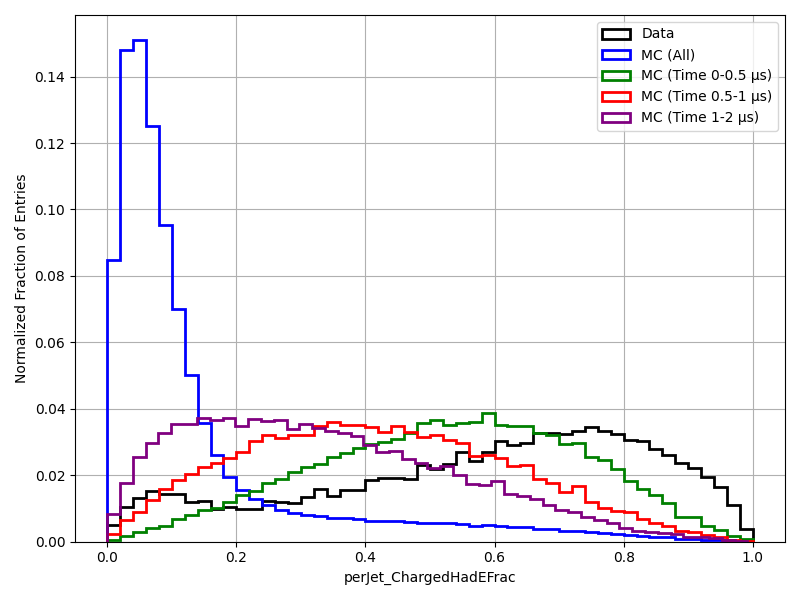
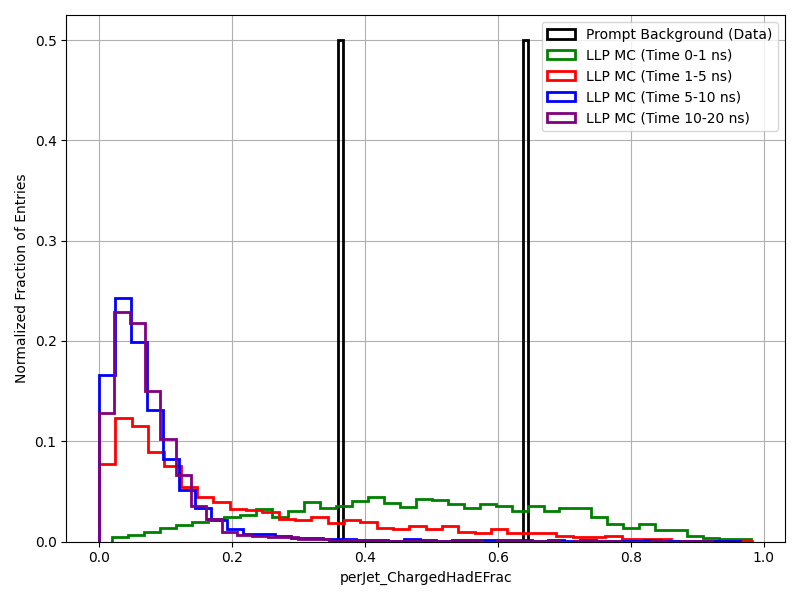
fixed timing constraints

diff --git a/JetTimingStudy.py b/JetTimingStudy.py
@@ -11,6 +11,47 @@ tree_name = "PerJet_NoSel"
 
 # -- Variables to plot
 variables_to_plot = ["perJet_EnergyFrac_Depth1", "perJet_NeutralHadEFrac", "perJet_Pt", "perJet_Mass", "perJet_Area", "perJet_ChargedHadEFrac", "perJet_PhoEFrac", "perJet_EleEFrac", "perJet_MuonEFrac", "perJet_MatchedLLP_DecayZ", "perJet_MatchedLLP_DecayR", "perJet_MatchedLLP_TravelTime", "perJet_MatchedLLP_Eta", "perJet_S_phiphi", "perJet_S_etaeta", "perJet_S_etaphi"]
+
+
+# ideal for eta constraints 
+# detailed_variables_to_plot = [
+#     ("perJet_EnergyFrac_Depth1", True, -0.25, 1, 50),
+#     ("perJet_NeutralHadEFrac", True, 0, 1, 40),
+#     ("perJet_Pt", True, 0, 200, 50),
+#     ("perJet_Mass", True, -5, 30, 50),
+#     ("perJet_Area", True, 0.3, 0.7, 25),
+#     ("perJet_ChargedHadEFrac", True, -0.1, 1, 40),
+#     ("perJet_PhoEFrac", True, 0, 1, 45),
+#     ("perJet_EleEFrac", True, 0, 0.2, 50),
+#     ("perJet_MuonEFrac", True, 0, 0.2, 50),
+#     ("perJet_MatchedLLP_DecayZ", True, -550, 550, 50),
+#     ("perJet_MatchedLLP_DecayR", True, -50, 500, 50),
+#     ("perJet_MatchedLLP_TravelTime", True, 0, 30, 50),
+#     ("perJet_MatchedLLP_Eta", True, -3, 3, 45),
+#     ("perJet_S_phiphi", True, -0.2, 0.2, 50),
+#     ("perJet_S_etaeta", True, -0.2, 0.2, 50),
+#     ("perJet_S_etaphi", True, -0.2, 0.2, 50)
+# ]
+
+detailed_variables_to_plot = [
+    ("perJet_EnergyFrac_Depth1", False, -0.25, 1, 30),
+    ("perJet_NeutralHadEFrac", False, 0, 1, 40),
+    ("perJet_Pt", True, 0, 250, 50),
+    ("perJet_Mass", True, 0, 40, 50),
+    ("perJet_Area", True, 0.3, 0.7, 25),
+    ("perJet_ChargedHadEFrac", False, -0.1, 1, 40),
+    ("perJet_PhoEFrac", False, 0, 1, 25),
+    ("perJet_EleEFrac", True, -0.1, 0.2, 50),
+    ("perJet_MuonEFrac", True, 0, 0.2, 50),
+    ("perJet_MatchedLLP_DecayZ", True, -320, 320, 40),
+    ("perJet_MatchedLLP_DecayR", True, -10, 300, 40),
+    ("perJet_MatchedLLP_TravelTime", False, 0, 30, 25),
+    ("perJet_MatchedLLP_Eta", True, -3, 3, 40),
+    ("perJet_S_phiphi", True, 0, 0.08, 40),
+    ("perJet_S_etaeta", True, 0, 0.08, 40),
+    ("perJet_S_etaphi", True, 0, 0.05, 40)
+]
+
 # -- Selection functions
 def load_tree(file_path, tree_name):
     file = uproot.open(file_path)
@@ -32,45 +73,68 @@ mc_arrays = mc_tree.arrays(variables_to_plot + ["Pass_LLPMatched", "perJet_Match
 data_mask = data_arrays["Pass_WPlusJets"] == 1 # .sum() tells us only 2/79724 entries pass the data mask
 mc_mask = mc_arrays["Pass_LLPMatched"] == 1 # would also add must pass the LLP trigger selection
 
+data_vars_to_ignore = ["perJet_MatchedLLP_Eta", "perJet_MatchedLLP_DecayZ", "perJet_MatchedLLP_DecayR", "perJet_MatchedLLP_TravelTime"]
+
 # -- Option: Additional MC cuts
+def get_cut(arrays, var_name, lower_bound, upper_bound):
+    return (arrays[var_name] >= lower_bound) & (arrays[var_name] <= upper_bound)
+
 def get_decay_r_mc_cut(mc_arrays, decayr_min, decayr_max):
     return (mc_arrays["perJet_MatchedLLP_DecayR"] > decayr_min) & (mc_arrays["perJet_MatchedLLP_DecayR"] < decayr_max)
 
 def get_timing_mc_cut(mc_arrays, time_min, time_max):
-    return (mc_arrays["perJet_MatchedLLP_TravelTime"] > time_min) & (mc_arrays["perJet_MatchedLLP_TravelTime"] < time_max) # seems to be only time var
+    return (mc_arrays["perJet_MatchedLLP_TravelTime"] > time_min) & (mc_arrays["perJet_MatchedLLP_TravelTime"] < time_max)
+
+def get_eta_mc_cut(mc_arrays, eta_min, eta_max):
+    return ((mc_arrays["perJet_MatchedLLP_Eta"] > eta_min[0]) & (mc_arrays["perJet_MatchedLLP_Eta"] <= eta_min[1])) | ((mc_arrays["perJet_MatchedLLP_Eta"] >= eta_max[0]) & (mc_arrays["perJet_MatchedLLP_Eta"] < eta_max[1]))
+
+def get_graph_range_cut(data_array, var_name, lower_bound, upper_bound): 
+    return (data_array[var_name] >= lower_bound) & (data_array[var_name] <= upper_bound)
 
 # -- Plotting function with normalization option
-def make_overlay_plot(var_name, bins=50, range=None, extra_mc_cuts=None, normalize_to_one=False, output_prefix="plot"):
+def make_overlay_plot(var_name, modified_range=False, lower_bound=None, upper_bound=None, bins=50, extra_mc_cuts=None, normalize_to_one=False, output_prefix="plot"):
     print("Running plotting function: make_overlay_plot() for " + var_name)
     plt.figure(figsize=(8, 6))
 
     # Base selections
-    data_vals = data_arrays[var_name][data_mask]
-    mc_vals = mc_arrays[var_name][mc_mask]
+    if modified_range:
+        range_cut_mask = get_graph_range_cut(data_arrays, var_name, lower_bound, upper_bound)
+        data_vals = data_arrays[var_name][data_mask & range_cut_mask]
+    else:
+        data_vals = data_arrays[var_name][data_mask]
 
     # Draw data
-    hist_kwargs = dict(bins=bins, range=range, histtype='step', linewidth=2)
+    hist_range = (lower_bound, upper_bound) if modified_range else None
+    if hist_range:
+        bin_edges = np.linspace(hist_range[0], hist_range[1], bins + 1)
+    else:
+        bin_edges = bins
+
+    hist_kwargs = dict(bins=bin_edges, range=hist_range, histtype='step', linewidth=2)
+
+    # To Read Graphs Better
+    if var_name in data_vars_to_ignore:
+        data_vals = []
 
     if normalize_to_one:
         data_weights = np.ones_like(data_vals) / len(data_vals) if len(data_vals) > 0 else None # basically doing 1/N for the histogram to normalize it
-        mc_weights = np.ones_like(mc_vals) / len(mc_vals) if len(mc_vals) > 0 else None
-        plt.hist(data_vals, weights=data_weights, label="Data", color="black", **hist_kwargs)
-        plt.hist(mc_vals, weights=mc_weights, label="MC (All)", color="blue", **hist_kwargs)
+        plt.hist(data_vals, weights=data_weights, label="Prompt Background (Data)", color="black", **hist_kwargs)
     else:
-        plt.hist(data_vals, label="Data", color="black", **hist_kwargs)
-        plt.hist(mc_vals, label="MC (All)", color="blue", **hist_kwargs)
+        plt.hist(data_vals, label="Prompt Background (Data)", color="black", **hist_kwargs)
 
     # Extra MC cuts (optional)
     if extra_mc_cuts:
         for label, (tmin, tmax), color in extra_mc_cuts:
-            # cut_mask = mc_mask & get_decay_r_mc_cut(mc_arrays, rmin, rmax)
-            cut_mask = mc_mask & get_timing_mc_cut(mc_arrays, tmin, tmax) # need to make the code cleaner so you can switch btwn diff cut types
+            if modified_range:
+                cut_mask = mc_mask & get_timing_mc_cut(mc_arrays, tmin, tmax) & get_graph_range_cut(mc_arrays, var_name, lower_bound, upper_bound)
+            else:
+                cut_mask = mc_mask & get_timing_mc_cut(mc_arrays, tmin, tmax)
             vals = mc_arrays[var_name][cut_mask]
             if normalize_to_one and len(vals) > 0:
                 weights = np.ones_like(vals) / len(vals)
             else:
                 weights = None
-            plt.hist(vals, weights=weights, label=f"MC ({label})", color=color, **hist_kwargs)
+            plt.hist(vals, weights=weights, label=f"LLP MC ({label})", color=color, **hist_kwargs)
 
     plt.xlabel(var_name)
     plt.ylabel("Normalized Fraction of Entries" if normalize_to_one else "Entries")
@@ -86,24 +150,28 @@ def make_overlay_plot(var_name, bins=50, range=None, extra_mc_cuts=None, normali
 
 # -- Extra MC regions to compare (optional)
 extra_decay_r_mc_regions = [
-    ("DecayR 0-129 cm", (0, 129), "green"),
-    ("DecayR 183-295 cm", (183, 295), "red")
-]
-
-more_decay_r_mc_regions_constraints = [
     ("DecayR Tracker 0-10 cm", (0, 10), "green"),
     ("DecayR Tracker 10-129 cm", (10, 129), "red"),
     ("DecayR ECAL 129–177 cm", (129, 177), "orange"),
-    ("DecayR HCAL 177-295 cm", (177, 295), "purple")
+    ("DecayR HCAL 177-295 cm", (177, 295), "blue")
 ]
 
 extra_time_constraints = [
-    ("Time 0-0.5 µs", (0, 0.5), "green"),
-    ("Time 0.5-1 µs", (0.5, 1), "red"),
-    ("Time 1-2 µs", (1, 2), "purple"),
+    ("Time 0-1 ns", (0, 1), "green"),
+    ("Time 1-5 ns", (1, 5), "red"),
+    ("Time 5-10 ns", (5, 10), "blue"),
+    ("Time 10-20 ns", (10, 12), "purple")
+]
+
+# add eta constraints also based on the graph
+exta_eta_constraints = [
+    ("η tracker -1.2-1.2", ((-1.2, 0),( 0, 1.2)), "green"),
+    ("η ECAL -1.6-1.6", ((-1.6, -1.2), (1.2, 1.6)), "red"),
+    ("η HCAL -2.4-2.4", ((-2.4, -1.6), (1.6, 2.4)), "blue")
+
 ]
 
 # -- Loop over variables and make plots with normalization option
 normalize = True  # Set this flag to True or False based on your need
-for var in variables_to_plot:
-    make_overlay_plot(var, bins=50, range=None, extra_mc_cuts=extra_time_constraints, normalize_to_one=normalize, output_prefix="overlay")
+for var, modify_range, lower_bound, upper_bound, bins  in detailed_variables_to_plot:
+    make_overlay_plot(var, modified_range=modify_range, lower_bound=lower_bound, upper_bound=upper_bound, bins=bins, extra_mc_cuts=extra_time_constraints, normalize_to_one=normalize, output_prefix="overlay")
